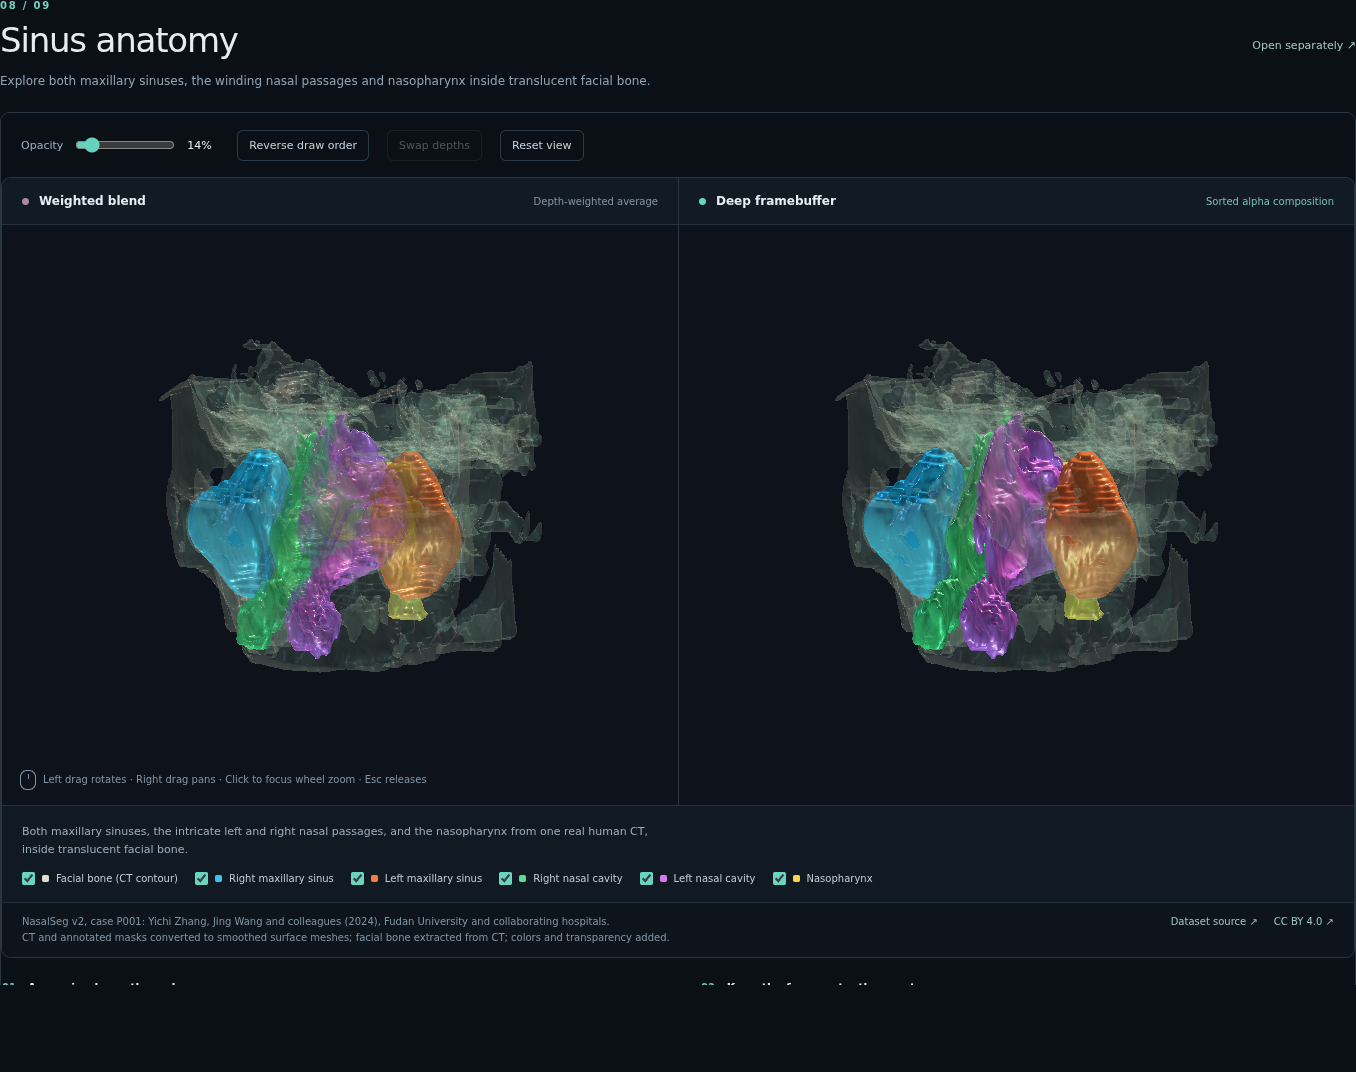
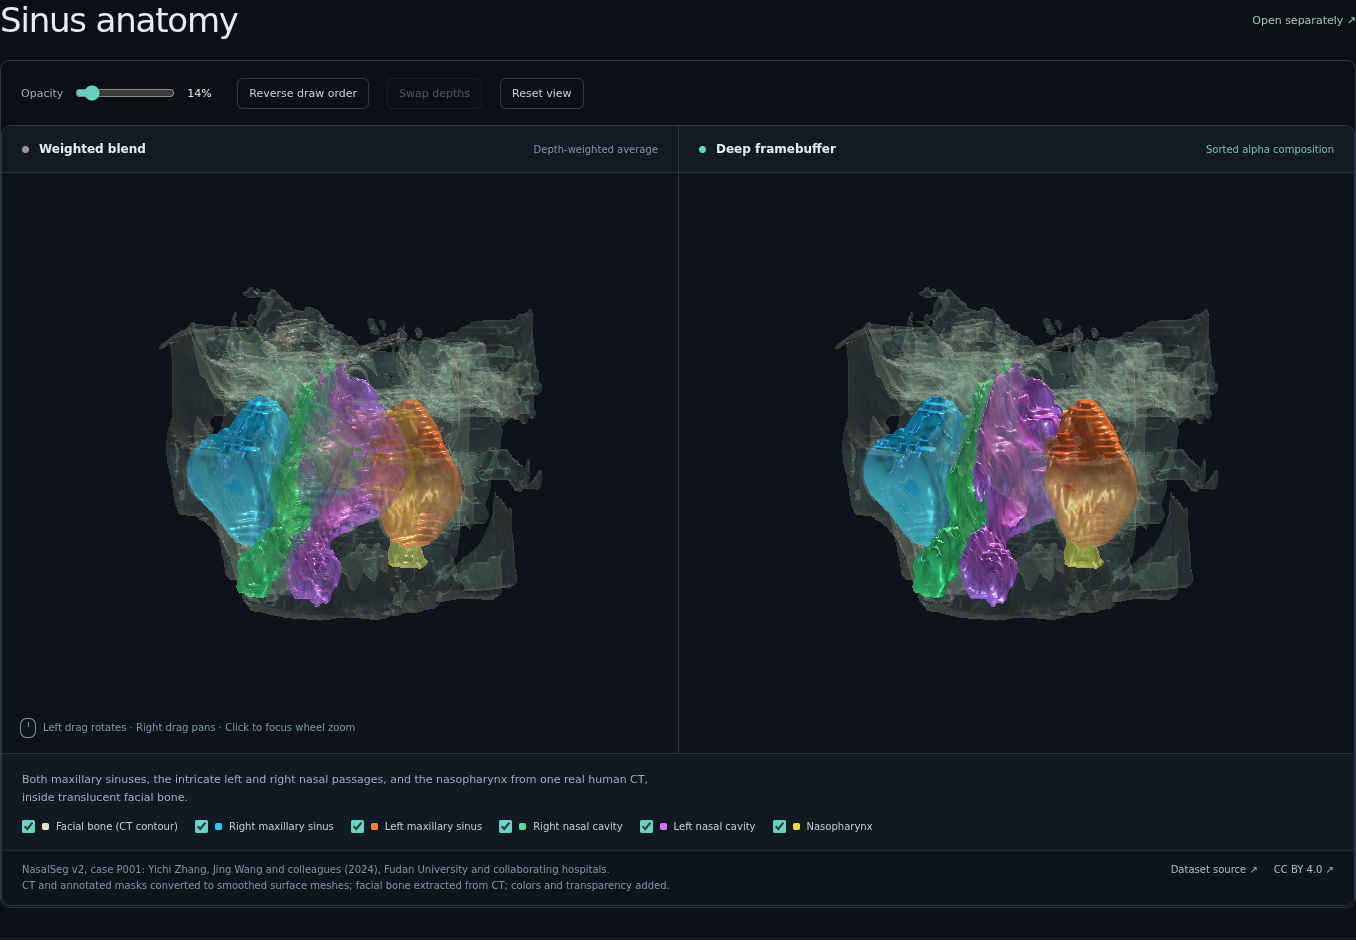
style(demo): simplify gallery headings and article links
Remove numbered labels, heading introductions, repeated explanations, and
Escape hints. Use blue underlined article links and add Read more to the intro.

diff --git a/Examples/Rendering/DeepFramebufferTransparency/gallery.js b/Examples/Rendering/DeepFramebufferTransparency/gallery.js
@@ -1,60 +1,15 @@
 import './gallery.css';
 
 const examples = [
-  {
-    key: 'nested',
-    name: 'Nested structures',
-    description:
-      'An amber trefoil inside a transparent teal shell. Follow the near surface as it passes in front of the knot.',
-  },
-  {
-    key: 'intersecting',
-    name: 'Intersecting fields',
-    description:
-      'Three translucent rings cross through one another. Their depth order changes across the image.',
-  },
-  {
-    key: 'layers',
-    name: 'Two-layer proof',
-    description:
-      'Two unlit rectangles isolate alpha composition. Swap their depths and compare the overlap color.',
-  },
-  {
-    key: 'bonsai',
-    name: 'Bonsai',
-    description:
-      'A real CT scan reveals the trunk, branches and soil beneath the foliage contour.',
-  },
-  {
-    key: 'engine',
-    name: 'Engine',
-    description:
-      'Look through the violet casing to follow the channels and dense internal structure of an engine block.',
-  },
-  {
-    key: 'teapot',
-    name: 'Boston Teapot',
-    description:
-      'The transparent enclosure surrounds a small lobster model captured inside the original CT scan.',
-  },
-  {
-    key: 'impact',
-    name: 'Asteroid ocean impact',
-    description:
-      'Water, temperature and asteroid surfaces intertwine in the LANL simulation at 11.00054 seconds.',
-  },
-  {
-    key: 'anatomy',
-    name: 'Sinus anatomy',
-    description:
-      'Explore both maxillary sinuses, the winding nasal passages and nasopharynx inside translucent facial bone.',
-  },
-  {
-    key: 'cad',
-    name: 'Ball-bearing assembly',
-    description:
-      'Twelve rolling balls fit between grooved races inside a pocketed retainer. Hide individual parts to inspect the fit.',
-  },
+  { key: 'nested', name: 'Nested structures' },
+  { key: 'intersecting', name: 'Intersecting fields' },
+  { key: 'layers', name: 'Two-layer proof' },
+  { key: 'bonsai', name: 'Bonsai' },
+  { key: 'engine', name: 'Engine' },
+  { key: 'teapot', name: 'Boston Teapot' },
+  { key: 'impact', name: 'Asteroid ocean impact' },
+  { key: 'anatomy', name: 'Sinus anatomy' },
+  { key: 'cad', name: 'Ball-bearing assembly' },
 ];
 
 const frameUrl = (key) => {
@@ -72,13 +27,13 @@ export function createGallery() {
   document.body.innerHTML = `
     <a class="gallery-skip" href="#examples">Skip to examples</a>
     <header class="gallery-header">
-      <div class="gallery-brand"><strong>VTK.js</strong> Rendering laboratory / 01</div>
+      <div class="gallery-brand"><strong>VTK.js</strong> Rendering laboratory</div>
       <div class="gallery-intro">
         <div><p class="gallery-eyebrow">Order-independent transparency</p><h1>Transparency, in depth.</h1></div>
-        <p>Look inside overlapping surfaces. Scroll through nine interactive examples, with weighted blending on the left and sorted alpha composition on the right.</p>
+        <p>Look inside overlapping surfaces. Scroll through nine interactive examples, with weighted blending on the left and sorted alpha composition on the right. <a class="gallery-read-more" href="https://www.kitware.com/better-transparency-with-vtk-and-webgpu/" target="_blank" rel="noreferrer">Read more ↗</a></p>
       </div>
-      <a class="gallery-article" href="https://www.kitware.com/better-transparency-with-vtk-and-webgpu/" target="_blank" rel="noreferrer"><span>Kitware article</span><strong>Better Transparency with VTK and WebGPU ↗</strong></a>
-      <p class="gallery-controls">Arcball · Left drag rotates with free roll · Right drag pans · Click a view to focus wheel zoom · Esc returns to page scrolling</p>
+      <a class="gallery-article" href="https://www.kitware.com/better-transparency-with-vtk-and-webgpu/" target="_blank" rel="noreferrer">Kitware: Better Transparency with VTK and WebGPU ↗</a>
+      <p class="gallery-controls">Arcball · Left drag rotates with free roll · Right drag pans · Click a view to focus wheel zoom</p>
     </header>
     <nav class="gallery-navigation" aria-label="Examples">
       <div>${examples.map(({ key, name }) => `<a href="#${key}">${name}</a>`).join('')}</div>
@@ -86,10 +41,10 @@ export function createGallery() {
     <main class="gallery-examples" id="examples">
       ${examples
         .map(
-          ({ key, name, description }, index) => `
+          ({ key, name }) => `
         <section class="gallery-example" id="${key}" aria-labelledby="${key}-title" data-active="true">
           <div class="gallery-section-heading">
-            <div><p class="gallery-number">${String(index + 1).padStart(2, '0')} / 09</p><h2 id="${key}-title" tabindex="-1"><a href="#${key}">${name}</a></h2><p>${description}</p></div>
+            <h2 id="${key}-title" tabindex="-1"><a href="#${key}">${name}</a></h2>
             <a class="gallery-open" href="?scene=${key}" target="_blank" rel="noreferrer">Open separately ↗</a>
           </div>
           <div class="gallery-stage" data-state="loading">

diff --git a/Examples/Rendering/DeepFramebufferTransparency/style.css b/Examples/Rendering/DeepFramebufferTransparency/style.css
@@ -21,8 +21,8 @@ button:focus-visible, input:focus-visible, select:focus-visible { outline: 2px s
 h1 { margin: 0; font-size: clamp(28px, 3.2vw, 45px); font-weight: 520; line-height: 1.1; letter-spacing: -.045em; }
 .intro-copy { margin: 0 0 2px; max-width: 420px; color: #91a3b3; font-size: 13px; line-height: 1.65; }
 .article-link { margin: 0 0 26px; font-size: 13px; line-height: 1.6; }
-.article-link a { display: inline-block; padding: 12px 16px; border: 1px solid #3d7569; border-radius: 7px; background: #142722; color: #b7efdf; text-decoration: none; }
-.article-link a:hover { border-color: #77d5bb; background: #1a342c; }
+.article-link a { color: #78afff; text-decoration: underline; text-decoration-thickness: 1px; text-underline-offset: 3px; }
+.article-link a:hover { color: #b4d2ff; }
 .dataset-bar { display: flex; flex-wrap: wrap; align-items: center; gap: 12px 25px; margin-bottom: 16px; }
 .dataset-bar label { display: flex; align-items: center; gap: 13px; font-size: 11px; color: #9cadbd; }
 .dataset-bar select { color: #edf5f6; background: #16232e; border: 1px solid #38525b; border-radius: 6px; padding: 9px 31px 9px 12px; min-width: 220px; }
@@ -60,10 +60,6 @@ h1 { margin: 0; font-size: clamp(28px, 3.2vw, 45px); font-weight: 520; line-heig
 .legend-item { display: inline-flex; align-items: center; gap: 7px; cursor: pointer; }
 .legend-item input { margin: 0; accent-color: #68d4c1; }
 .legend-item i { display: inline-block; width: 7px; height: 7px; border-radius: 2px; }
-.explanation { display: grid; grid-template-columns: 1fr 1fr; gap: 46px; padding: 23px 1px 22px; }
-.explanation h2 { font-size: 11px; font-weight: 550; color: #e3eaf0; margin: 0 0 8px; }
-.explanation p { font-size: 11px; line-height: 1.7; color: #8297a8; margin: 0; }
-.explanation .label { display: inline-block; color: #70c8b8; font-size: 10px; margin-right: 8px; }
 .footer { display: flex; justify-content: space-between; gap: 20px; border-top: 1px solid #25303c; padding-top: 15px; color: #6f8395; font-size: 10px; line-height: 1.6; }
 .footer a { color: #a6bdc8; text-decoration: none; }
 .footer a:hover { text-decoration: underline; }
@@ -92,7 +88,6 @@ h1 { margin: 0; font-size: clamp(28px, 3.2vw, 45px); font-weight: 520; line-heig
   .dataset-bar select { min-width: 0; max-width: 63%; }
   .view-label { padding: 13px 12px; gap: 7px; font-size: 10px; }
   .viewport { height: 340px; }
-  .explanation { gap: 18px; }
   .interaction-hint { font-size: 8px; left: 10px; }
   .footer { flex-direction: column; gap: 4px; }
 }
@@ -101,4 +96,3 @@ h1 { margin: 0; font-size: clamp(28px, 3.2vw, 45px); font-weight: 520; line-heig
 .embedded .masthead, .embedded .intro, .embedded .article-link, .embedded .dataset-bar, .embedded .footer { display: none; }
 .embedded .controls { min-height: 64px; border: 0; padding: 14px 20px; }
 .embedded .opacity-control { margin-left: 0; }
-.embedded .explanation { padding-bottom: 0; }

diff --git a/Examples/Rendering/DeepFramebufferTransparency/viewer.js b/Examples/Rendering/DeepFramebufferTransparency/viewer.js
@@ -16,7 +16,7 @@ document.body.classList.toggle('embedded', embedded);
 document.body.innerHTML = `
   <main class="laboratory">
     <header class="masthead">
-      <div class="brand"><strong>VTK.js</strong> Rendering laboratory / 01</div>
+      <div class="brand"><strong>VTK.js</strong> Rendering laboratory</div>
       <div class="status" role="status" id="status">Preparing WebGPU</div>
     </header>
     <section class="intro" aria-labelledby="title">
@@ -49,7 +49,7 @@ document.body.innerHTML = `
         <div class="view-label deep"><span class="method-dot"></span>Deep framebuffer<span class="method-type">Sorted alpha composition</span></div>
       </div>
       <div class="viewport" id="viewport" aria-label="Interactive 3D comparison">
-        <div class="interaction-hint"><span></span>Left drag rotates · Right drag pans · Click to focus wheel zoom · Esc releases</div>
+        <div class="interaction-hint"><span></span>Left drag rotates · Right drag pans · Click to focus wheel zoom</div>
         <div class="error" id="error" hidden></div>
       </div>
       <div class="scene-info"><p id="description"></p><div class="legend" id="legend"></div></div>
@@ -57,10 +57,6 @@ document.body.innerHTML = `
         <div><p id="credit"></p><p id="attribution-note" hidden></p><p id="mirror-credit" hidden></p></div>
         <div class="credit-links"><a id="source" target="_blank" rel="noreferrer" hidden>Dataset source ↗</a><a id="license" target="_blank" rel="noreferrer" hidden></a></div>
       </div>
-    </section>
-    <section class="explanation" aria-label="How the comparison works">
-      <div><h2><span class="label">01</span> Averaging loses the order</h2><p>Weighted transparency combines contributions into a few image buffers. Surfaces at different depths can blend into the same color, obscuring what lies in front.</p></div>
-      <div><h2><span class="label">02</span> Keep the fragments, then sort</h2><p id="note"></p></div>
     </section>
     <footer class="footer"><span>WebGPU · Polygonal surfaces · Up to 16 retained fragments per pixel</span><a href="https://www.kitware.com/better-transparency-with-vtk-and-webgpu/" target="_blank" rel="noreferrer">Inspired by VTK's deep framebuffer ↗</a></footer>
   </main>
@@ -195,7 +191,6 @@ const activateScene = (key, scene) => {
     });
   });
   document.querySelector('#description').textContent = scene.description;
-  document.querySelector('#note').textContent = scene.note;
   document.querySelector('#legend').replaceChildren(
     ...scene.legend.map(([color, label], index) => {
       const item = document.createElement('label');

diff --git a/Examples/Rendering/DeepFramebufferTransparency/gallery.css b/Examples/Rendering/DeepFramebufferTransparency/gallery.css
@@ -53,8 +53,7 @@
   margin-top: 45px;
 }
 
-.gallery-eyebrow,
-.gallery-number {
+.gallery-eyebrow {
   color: #71cfbf;
   font-size: 10px;
   font-weight: 650;
@@ -89,33 +88,26 @@
   line-height: 1.7;
 }
 
+.gallery-article,
+.gallery-read-more {
+  color: #78afff;
+  text-decoration: underline;
+  text-decoration-thickness: 1px;
+  text-underline-offset: 3px;
+}
+
 .gallery-article {
-  display: inline-flex;
-  flex-wrap: wrap;
-  align-items: center;
-  gap: 6px 14px;
+  display: inline-block;
   max-width: 100%;
   margin-top: 24px;
-  padding: 13px 16px;
-  border: 1px solid #3d7569;
-  border-radius: 7px;
-  background: #142722;
-  color: #b7efdf;
-  font-size: 13px;
+  font-size: 14px;
+  font-weight: 600;
   line-height: 1.6;
-  text-decoration: none;
 }
 
-.gallery-article span {
-  color: #85bbae;
-  font-size: 10px;
-  letter-spacing: 0.08em;
-  text-transform: uppercase;
-}
-
-.gallery-article:hover {
-  border-color: #77d5bb;
-  background: #1a342c;
+.gallery-article:hover,
+.gallery-read-more:hover {
+  color: #b4d2ff;
 }
 
 .gallery-navigation {
@@ -166,10 +158,6 @@
   margin-bottom: 20px;
 }
 
-.gallery-number {
-  margin: 0 0 9px;
-}
-
 .gallery-section-heading h2 {
   margin: 0;
   font-size: clamp(24px, 2.5vw, 34px);
@@ -184,14 +172,6 @@
 
 .gallery-section-heading h2 a:hover {
   color: #a2dfd0;
-}
-
-.gallery-section-heading > div > p:last-child {
-  max-width: 760px;
-  margin: 11px 0 0;
-  color: #91a3b3;
-  font-size: 12px;
-  line-height: 1.7;
 }
 
 .gallery-open {
